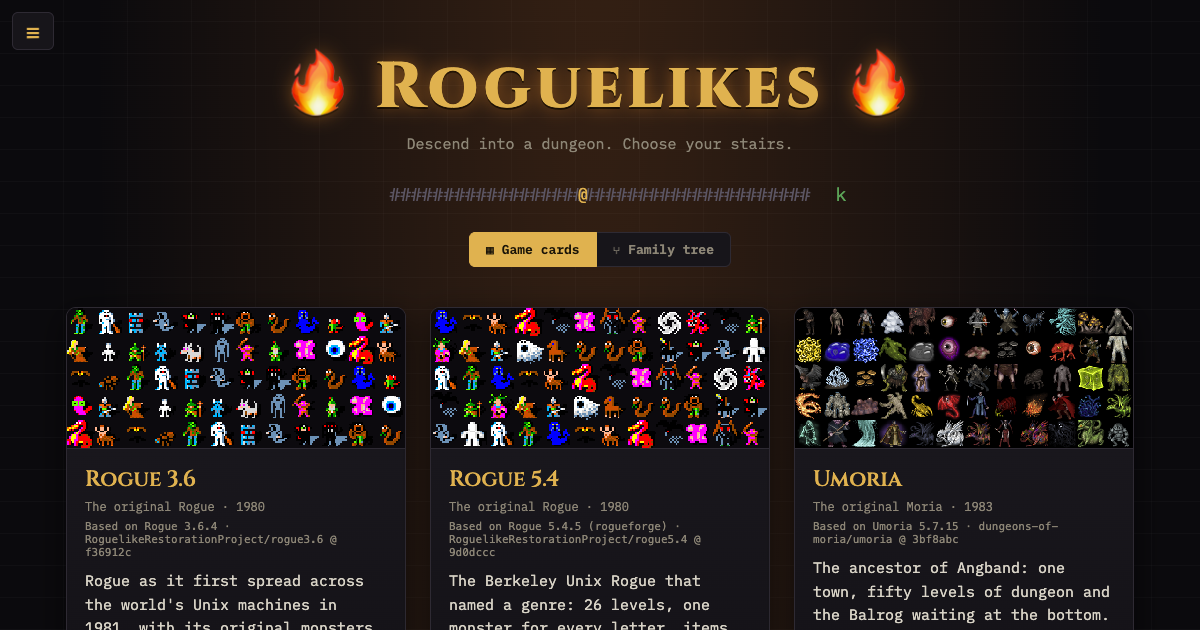
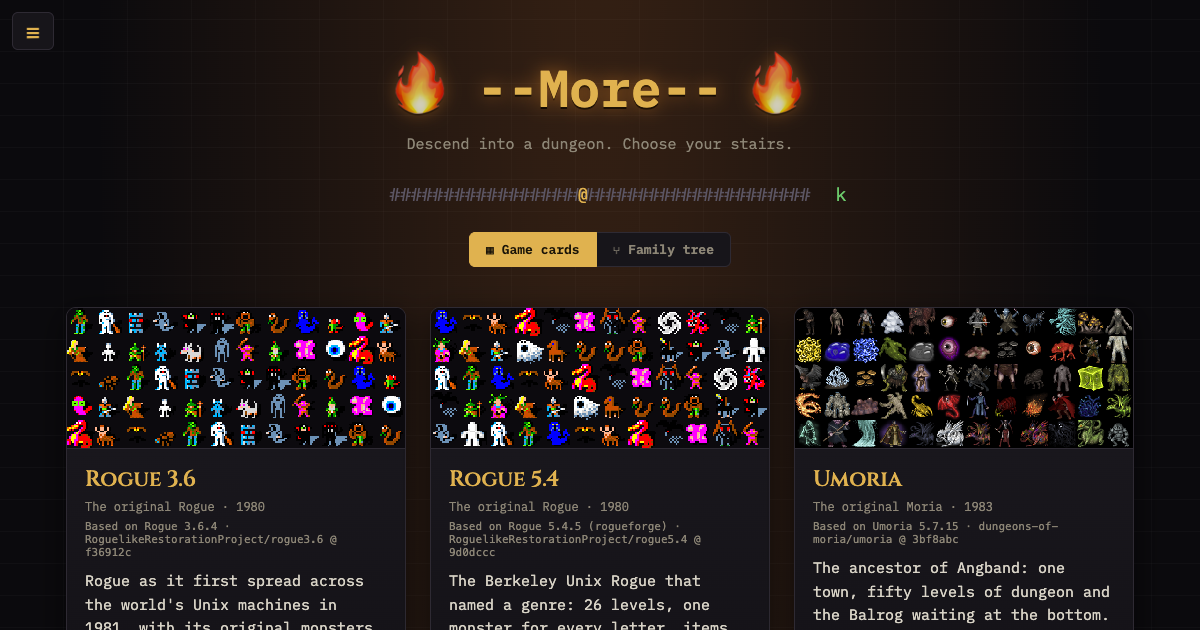
og: previews say --More--, fresh screenshots

Changed region(s): [[0.2158, 0.0603, 0.7708, 0.2111]]

diff --git a/index.html b/index.html
@@ -7,8 +7,8 @@
 <!--og-->
 <meta name="description" content="28 classic roguelikes, from Rogue and Hack to NetHack, Angband and Crawl, playable in your browser with tiles, sound and auto-explore. Plus a family tree of the genre.">
 <meta property="og:type" content="website">
-<meta property="og:site_name" content="Roguelikes">
-<meta property="og:title" content="Roguelikes · play the classics in your browser">
+<meta property="og:site_name" content="--More--">
+<meta property="og:title" content="--More-- · classic roguelikes in your browser">
 <meta property="og:description" content="28 classic roguelikes, from Rogue and Hack to NetHack, Angband and Crawl, playable in your browser with tiles, sound and auto-explore. Plus a family tree of the genre.">
 <meta property="og:url" content="https://ruzzoli.de/roguelikes/">
 <meta property="og:image" content="https://ruzzoli.de/roguelikes/og/index.png">

diff --git a/shrine/hack.html b/shrine/hack.html
@@ -7,7 +7,7 @@
 <!--og-->
 <meta name="description" content="Andries Brouwer&#x27;s Hack 1.0.3 (1985), the game NetHack grew from: pets, shops, a nymph that steals, a cockatrice that stones, and the Amulet of Yendor waiting at the bottom. Tiles: DawnLike, or NetHack&#x27;s own, switchable.">
 <meta property="og:type" content="website">
-<meta property="og:site_name" content="Roguelikes">
+<meta property="og:site_name" content="--More--">
 <meta property="og:title" content="Hack · Shrine">
 <meta property="og:description" content="Andries Brouwer&#x27;s Hack 1.0.3 (1985), the game NetHack grew from: pets, shops, a nymph that steals, a cockatrice that stones, and the Amulet of Yendor waiting at the bottom. Tiles: DawnLike, or NetHack&#x27;s own, switchable.">
 <meta property="og:url" content="https://ruzzoli.de/roguelikes/shrine/hack.html">

diff --git a/shrine/crawl-linley.html b/shrine/crawl-linley.html
@@ -7,7 +7,7 @@
 <!--og-->
 <meta name="description" content="The game Stone Soup grew from: twenty-six species, gods with their own rules, a dungeon of branches from the Orc Mines to Hell and Pandemonium, and the Orb of Zot at the bottom. Shown with its 2005 tile version.">
 <meta property="og:type" content="website">
-<meta property="og:site_name" content="Roguelikes">
+<meta property="og:site_name" content="--More--">
 <meta property="og:title" content="Linley&#x27;s Dungeon Crawl · Shrine">
 <meta property="og:description" content="The game Stone Soup grew from: twenty-six species, gods with their own rules, a dungeon of branches from the Orc Mines to Hell and Pandemonium, and the Orb of Zot at the bottom. Shown with its 2005 tile version.">
 <meta property="og:url" content="https://ruzzoli.de/roguelikes/shrine/crawl-linley.html">

diff --git a/shrine/slashem.html b/shrine/slashem.html
@@ -7,7 +7,7 @@
 <!--og-->
 <meta name="description" content="Super Lotsa Added Stuff Hack - Extended Magic: NetHack with more of everything. Extra roles and races, hundreds of new monsters and items, new spells and dungeon branches, all still on the way to the Amulet of Yendor.">
 <meta property="og:type" content="website">
-<meta property="og:site_name" content="Roguelikes">
+<meta property="og:site_name" content="--More--">
 <meta property="og:title" content="SLASH&#x27;EM · Shrine">
 <meta property="og:description" content="Super Lotsa Added Stuff Hack - Extended Magic: NetHack with more of everything. Extra roles and races, hundreds of new monsters and items, new spells and dungeon branches, all still on the way to the Amulet of Yendor.">
 <meta property="og:url" content="https://ruzzoli.de/roguelikes/shrine/slashem.html">

diff --git a/shrine/decker.html b/shrine/decker.html
@@ -7,7 +7,7 @@
 <!--og-->
 <meta name="description" content="A hacker&#x27;s career in the spirit of Shadowrun: take contracts, upgrade your cyberdeck and write your own programs, then crawl turn by turn through generated corporate systems where ICE programs are the monsters.">
 <meta property="og:type" content="website">
-<meta property="og:site_name" content="Roguelikes">
+<meta property="og:site_name" content="--More--">
 <meta property="og:title" content="Decker · Shrine">
 <meta property="og:description" content="A hacker&#x27;s career in the spirit of Shadowrun: take contracts, upgrade your cyberdeck and write your own programs, then crawl turn by turn through generated corporate systems where ICE programs are the monsters.">
 <meta property="og:url" content="https://ruzzoli.de/roguelikes/shrine/decker.html">

diff --git a/shrine/nethack13d.html b/shrine/nethack13d.html
@@ -7,7 +7,7 @@
 <!--og-->
 <meta name="description" content="Mike Stephenson&#x27;s early NetHack, a year after Hack: ninja, samurai, priests and valkyries join the classes, alongside shops and the Amulet deep below. Tiles: DawnLike, or NetHack&#x27;s own, switchable.">
 <meta property="og:type" content="website">
-<meta property="og:site_name" content="Roguelikes">
+<meta property="og:site_name" content="--More--">
 <meta property="og:title" content="NetHack 1.3d · Shrine">
 <meta property="og:description" content="Mike Stephenson&#x27;s early NetHack, a year after Hack: ninja, samurai, priests and valkyries join the classes, alongside shops and the Amulet deep below. Tiles: DawnLike, or NetHack&#x27;s own, switchable.">
 <meta property="og:url" content="https://ruzzoli.de/roguelikes/shrine/nethack13d.html">

diff --git a/shrine/dynahack.html b/shrine/dynahack.html
@@ -7,7 +7,7 @@
 <!--og-->
 <meta name="description" content="NetHack with randomized magical equipment, UnNetHack&#x27;s new items, monsters and maps, magic chests and fewer instant deaths, played through the modern NetHack4-style interface. Tiles: NetHack 3.4.3&#x27;s.">
 <meta property="og:type" content="website">
-<meta property="og:site_name" content="Roguelikes">
+<meta property="og:site_name" content="--More--">
 <meta property="og:title" content="DynaHack · Shrine">
 <meta property="og:description" content="NetHack with randomized magical equipment, UnNetHack&#x27;s new items, monsters and maps, magic chests and fewer instant deaths, played through the modern NetHack4-style interface. Tiles: NetHack 3.4.3&#x27;s.">
 <meta property="og:url" content="https://ruzzoli.de/roguelikes/shrine/dynahack.html">

diff --git a/shrine/urogue.html b/shrine/urogue.html
@@ -7,7 +7,7 @@
 <!--og-->
 <meta name="description" content="The biggest game of the Rogue family: ten classes, about four hundred monsters from dinosaurs to the gods of Greyhawk, and an artifact you must bring up from the depths before the stairs will take you home.">
 <meta property="og:type" content="website">
-<meta property="og:site_name" content="Roguelikes">
+<meta property="og:site_name" content="--More--">
 <meta property="og:title" content="UltraRogue · Shrine">
 <meta property="og:description" content="The biggest game of the Rogue family: ten classes, about four hundred monsters from dinosaurs to the gods of Greyhawk, and an artifact you must bring up from the depths before the stairs will take you home.">
 <meta property="og:url" content="https://ruzzoli.de/roguelikes/shrine/urogue.html">

diff --git a/shrine/nethack50.html b/shrine/nethack50.html
@@ -7,7 +7,7 @@
 <!--og-->
 <meta name="description" content="The current NetHack from the DevTeam: forty years of monsters, gods, shops, quests and Sokoban, ending in the Astral Plane. Separate map, message and inventory windows. Tiles: NetHack&#x27;s own.">
 <meta property="og:type" content="website">
-<meta property="og:site_name" content="Roguelikes">
+<meta property="og:site_name" content="--More--">
 <meta property="og:title" content="NetHack 5.0 · Shrine">
 <meta property="og:description" content="The current NetHack from the DevTeam: forty years of monsters, gods, shops, quests and Sokoban, ending in the Astral Plane. Separate map, message and inventory windows. Tiles: NetHack&#x27;s own.">
 <meta property="og:url" content="https://ruzzoli.de/roguelikes/shrine/nethack50.html">

diff --git a/shrine/tactical-angband.html b/shrine/tactical-angband.html
@@ -7,7 +7,7 @@
 <!--og-->
 <meta name="description" content="Angband without the grind: 50 small levels, short sight lines, one mighty blow instead of many small ones, and almost no long-range teleporting, so every fight is decided by positioning.">
 <meta property="og:type" content="website">
-<meta property="og:site_name" content="Roguelikes">
+<meta property="og:site_name" content="--More--">
 <meta property="og:title" content="Tactical Angband · Shrine">
 <meta property="og:description" content="Angband without the grind: 50 small levels, short sight lines, one mighty blow instead of many small ones, and almost no long-range teleporting, so every fight is decided by positioning.">
 <meta property="og:url" content="https://ruzzoli.de/roguelikes/shrine/tactical-angband.html">

diff --git a/shrine/ularn.html b/shrine/ularn.html
@@ -7,7 +7,7 @@
 <!--og-->
 <meta name="description" content="Larn made harder: pick one of eight classes, from Ogre to Rambo, and fetch the cure for your daughter from the bottom of the volcano, past demon lords and the God of Hellfire, before time runs out.">
 <meta property="og:type" content="website">
-<meta property="og:site_name" content="Roguelikes">
+<meta property="og:site_name" content="--More--">
 <meta property="og:title" content="uLarn · Shrine">
 <meta property="og:description" content="Larn made harder: pick one of eight classes, from Ogre to Rambo, and fetch the cure for your daughter from the bottom of the volcano, past demon lords and the God of Hellfire, before time runs out.">
 <meta property="og:url" content="https://ruzzoli.de/roguelikes/shrine/ularn.html">

diff --git a/shrine/tome2.html b/shrine/tome2.html
@@ -7,7 +7,7 @@
 <!--og-->
 <meta name="description" content="The Tales of Middle-earth: a whole map of Middle-earth to roam, dozens of themed dungeons, gods to follow and a skill system that lets any class grow its own way. Also includes the Theme module.">
 <meta property="og:type" content="website">
-<meta property="og:site_name" content="Roguelikes">
+<meta property="og:site_name" content="--More--">
 <meta property="og:title" content="ToME 2 · Shrine">
 <meta property="og:description" content="The Tales of Middle-earth: a whole map of Middle-earth to roam, dozens of themed dungeons, gods to follow and a skill system that lets any class grow its own way. Also includes the Theme module.">
 <meta property="og:url" content="https://ruzzoli.de/roguelikes/shrine/tome2.html">
